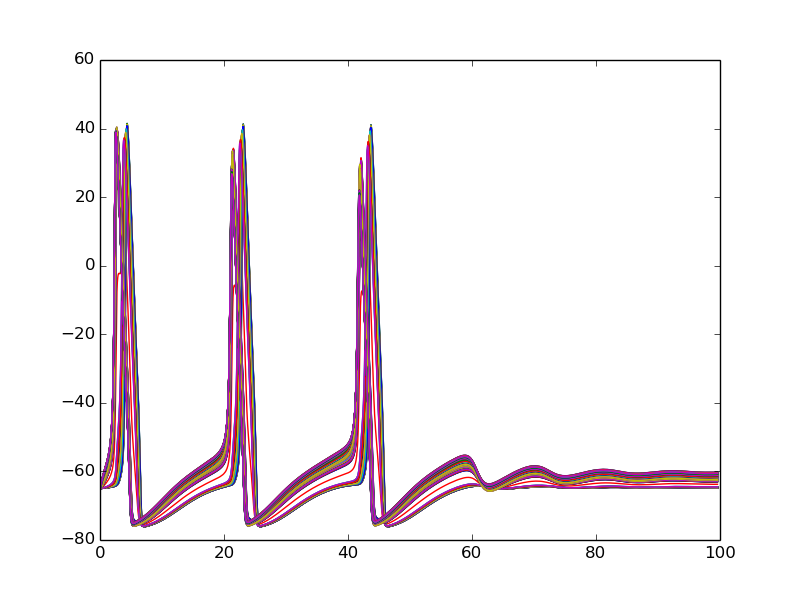
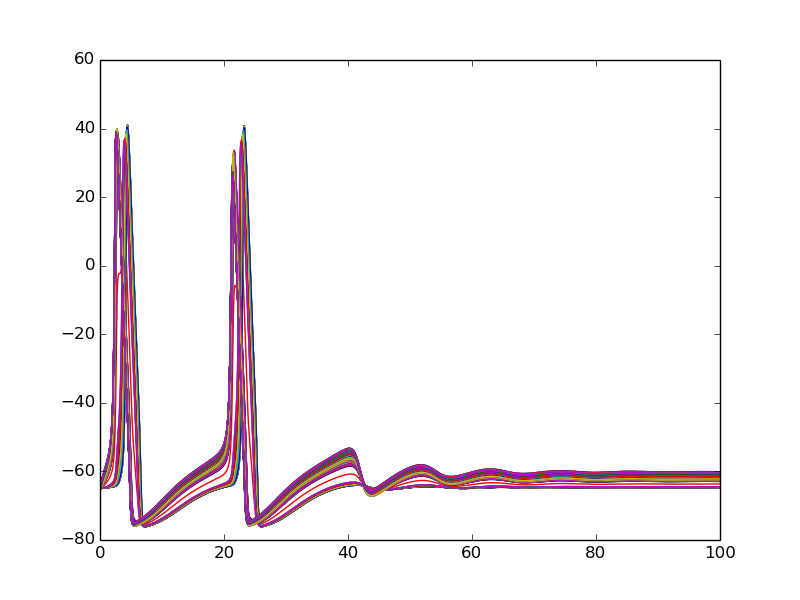
neuron produces csv file now.

Changed region(s): [[0.125, 0.21, 0.9062, 0.9]]

diff --git a/moose_nrn_equivalence_testing/comparision_with_simple_HH_model/compare.py b/moose_nrn_equivalence_testing/comparision_with_simple_HH_model/compare.py
@@ -1,0 +1,78 @@
+"""compare.py: 
+
+    Pass two csv file, first moose and second neuron.
+
+"""
+    
+__author__           = "Dilawar Singh"
+__copyright__        = "Copyright 2015, Dilawar Singh and NCBS Bangalore"
+__credits__          = ["NCBS Bangalore"]
+__license__          = "GNU GPL"
+__version__          = "1.0.0"
+__maintainer__       = "Dilawar Singh"
+__email__            = "dilawars@ncbs.res.in"
+__status__           = "Development"
+
+import sys
+import csv
+import numpy as np
+import pylab
+
+data_ = {}
+
+def get_index(query, row):
+    for i, r in enumerate(row):
+        r = r.split("/")[-1]
+        if query.lower()+"[0]" == r.lower():
+            return i, r
+    raise Exception
+
+def compare(mooseCsv, nrnCsv):
+    mooseData = None
+    nrnData = None
+    with open(mooseCsv, "r") as f:
+        mooseTxt = f.read().split("\n")
+        mooseHeader, mooseData = mooseTxt[0].split(","), np.genfromtxt(mooseTxt[1:],
+                delimiter=',').T
+    with open(nrnCsv, "r") as f:
+        nrnTxt = f.read().split("\n")
+        nrnHeader, nrnData = nrnTxt[0].split(','), 1e-3*np.genfromtxt(nrnTxt[1:],
+                delimiter=',').T
+
+    nrnTimeVec, nrnData = nrnData[0], nrnData[1:]
+    mooseTimeVec, mooseData = mooseData[0], mooseData[1:]
+    print nrnTimeVec
+    assert np.allclose(nrnTimeVec, mooseTimeVec), mooseTimeVec - nrnTimeVec
+    for i, comptName in enumerate(nrnHeader[1:]):
+        if i == 1:
+            break 
+        nrnComptName = comptName.replace("table_", "")
+        mooseComptId, mooseComptName = get_index(nrnComptName, mooseHeader[1:])
+        print("%s %s- moose equivalent %s %s" % (i, nrnComptName, mooseComptId,
+            mooseComptName))
+        pylab.plot(nrnTimeVec, nrnData[i] - mooseData[mooseComptId],
+                label="neuron-%s, moose-%s" % (comptName, mooseComptName))
+    pylab.legend(loc='best', framealpha=0.4)
+    pylab.show()
+
+
+#   mooseList = mooseHeader.split(",")
+    #for i, row in enumerate(nrnHeader.split(",")):
+        #comptID = row.replace("table_", "")
+        #mooseId = get_index(comptID, mooseList)
+        #mooseVec = get_vector(mooseId, mooseData)
+        #nrnVec = get_vector(i, nrnData)
+        #data_[comptID] = (mooseVec, nrnVec)
+
+    #for k in data_:
+        #mooseVec, nrnVec = data_[k]
+        #print len(mooseVec), len(nrnVec)
+
+def main():
+    mooseFile = sys.argv[1]
+    nrnrFile = sys.argv[2]
+    compare(mooseFile, nrnrFile)
+
+
+if __name__ == '__main__':
+    main()

diff --git a/moose_nrn_equivalence_testing/comparision_with_simple_HH_model/moose_to_neuron.py b/moose_nrn_equivalence_testing/comparision_with_simple_HH_model/moose_to_neuron.py
@@ -113,7 +113,7 @@ def stimulus_text():
     stimtext = [ 'load_file("stdrun.hoc")' ]
     mu.info(" Default sim time is 1 second. Change it in script.")
     stimtext.append('tstop=%s' % 100)
-    stimtext.append('cvode.active(1)')
+    #stimtext.append('cvode.active(1)')
     stimtext.append('finitialize()')
     stimtext.append('run()')
     stimtext.append("\n")
@@ -124,13 +124,13 @@ def plot_text(tableList):
     plottext = ["objref outF"]
     plottext.append("outF = new File()")
     plottext.append('outF.wopen("nrn_out.dat")')
-    plottext.append('outF.printf("t,%s")' % ",".join(tableList))
+    plottext.append('outF.printf("time,%s\\n")' % ",".join(tableList))
     plottext.append('for i=0,rect.size()-1 {\n')
     glist, plotlist = ["%g"], ["rect.x(i)"]
     for t in tableList:
         glist.append("%g")
         plotlist.append("%s.x(i)" % t)
-    plottext.append('\toutF.printf("%s\\n", %s)' % (" ".join(glist), ",".join(plotlist)))
+    plottext.append('\toutF.printf("%s\\n", %s)' % (",".join(glist), ",".join(plotlist)))
     plottext.append("}")
     plottext.append("\n")
     return "\n".join(plottext)

diff --git a/moose_nrn_equivalence_testing/comparision_with_simple_HH_model/check_equivalence.py b/moose_nrn_equivalence_testing/comparision_with_simple_HH_model/check_equivalence.py
@@ -48,6 +48,8 @@ def buildMOOSE(swcfile):
     print("Total moose compartment: %s" % len(compts))
 
 def runMOOSE():
+    for i in range(10):
+        moose.setClock(i, 25e-6)
     moose.reinit()
     moose.start(0.1)
     records = {}
